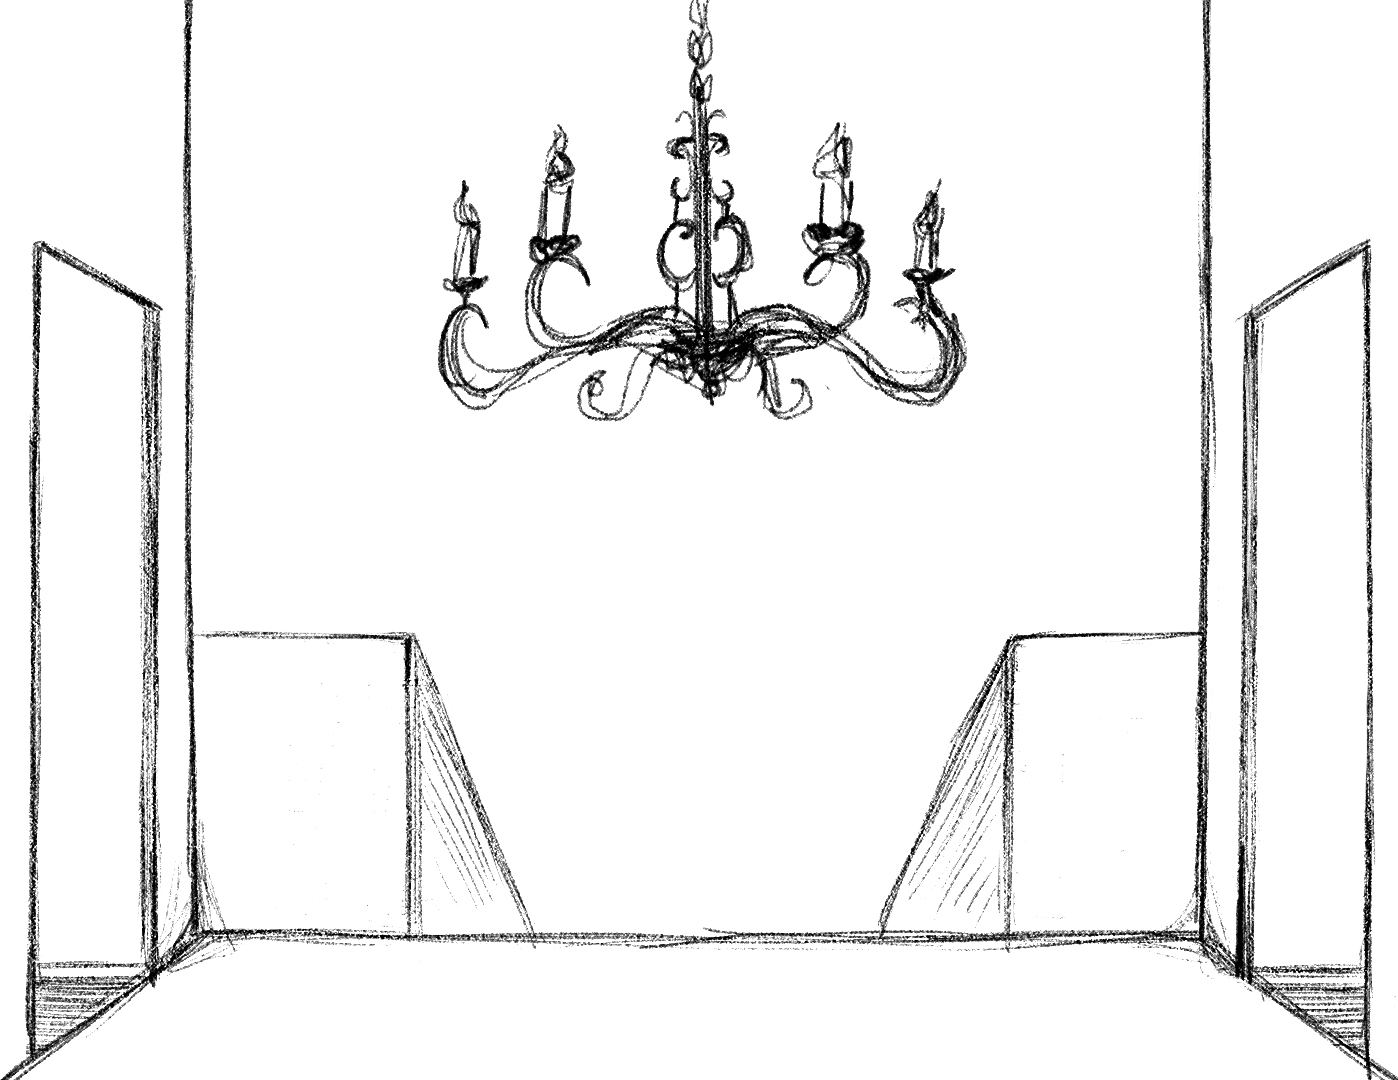
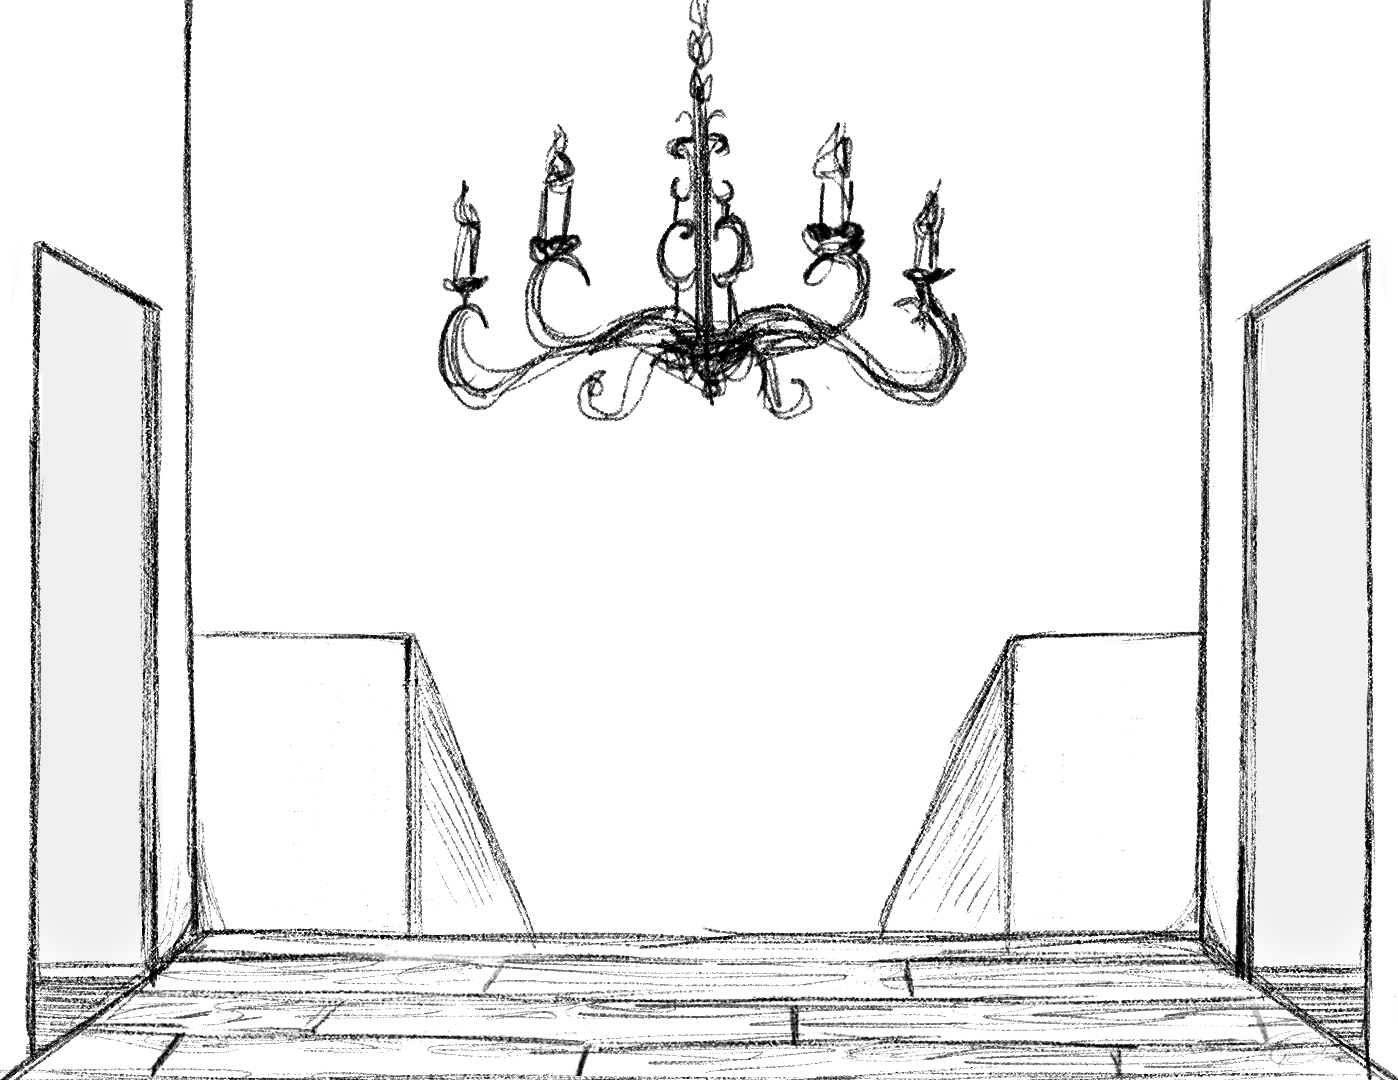
Update room backgrounds and hide exits to locked rooms

Changed region(s): [[0.0308, 0.8556, 0.9843, 1.0]]

diff --git a/tests/Integration/ProjectTest.Resources.cs b/tests/Integration/ProjectTest.Resources.cs
@@ -5,6 +5,74 @@ using Godot;
 
 public partial class ProjectTest
 {
+    private async Task TestRoomDoorways()
+    {
+        const string save = "user://room_doorway_test.json";
+        var scene = GD.Load<PackedScene>("res://scenes/trade_scene.tscn");
+        TradeScene game = scene.Instantiate<TradeScene>();
+        void CheckDoors(bool open)
+        {
+            string suffix = open ? ".jpg" : "_closed.jpg";
+            foreach (var entry in new[] { ("Corridor/CorridorBackground", "upper_corridor"),
+                ("TradingRoom/TradingRoomBackground", "cashier") })
+            {
+                var sprite = game.GetNode<Sprite2D>("World/" + entry.Item1);
+                Check(sprite.Texture.ResourcePath == "res://art/rooms/" + entry.Item2 + suffix &&
+                    sprite.Texture.GetSize() == new Vector2(1398, 1080) && sprite.Position == new Vector2(3, 4) &&
+                    sprite.Scale == Vector2.One && !sprite.Centered,
+                    $"{entry.Item2} must show the {(open ? "open" : "closed")} doorway without changing room geometry");
+            }
+        }
+        async Task Reload()
+        {
+            game.QueueFree();
+            await ToSignal(this, SignalName.ProcessFrame);
+            game = scene.Instantiate<TradeScene>();
+            game.SavePath = save;
+            Root.AddChild(game);
+            game.SetProcess(false);
+            await ToSignal(this, SignalName.ProcessFrame);
+        }
+        try
+        {
+            if (FileAccess.FileExists(save)) DirAccess.RemoveAbsolute(ProjectSettings.GlobalizePath(save));
+            CheckDoors(false); // The editor and the initial runtime frame must agree.
+            game.SavePath = save;
+            Root.AddChild(game);
+            game.SetProcess(false);
+            await ToSignal(this, SignalName.ProcessFrame);
+            CheckDoors(false);
+            game.Score = 0;
+            game.TryUnlockMusicWorkshop();
+            Check(!game.MusicWorkshopUnlocked, "An unaffordable unlock must keep neighboring rooms closed");
+            CheckDoors(false);
+            game.Score = 220;
+            game.TryUnlockMusicWorkshop();
+            Check(game.MusicWorkshopUnlocked && game.Score == 120,
+                "Existing unlock action and cost must remain unchanged");
+            CheckDoors(true);
+            await Reload();
+            Check(game.MusicWorkshopUnlocked, "Reload must restore the open-room state");
+            CheckDoors(true);
+            game.ReturnToCheckpoint();
+            Check(!game.MusicWorkshopUnlocked, "The initial checkpoint must close the added rooms again");
+            CheckDoors(false);
+            await Reload();
+            CheckDoors(false);
+            game.TryUnlockMusicWorkshop();
+            CheckDoors(true);
+            game.NewGame();
+            Check(!game.MusicWorkshopUnlocked && game.Score == 220, "New Game must restore the original locked state");
+            CheckDoors(false);
+        }
+        finally
+        {
+            game.QueueFree();
+            if (FileAccess.FileExists(save)) DirAccess.RemoveAbsolute(ProjectSettings.GlobalizePath(save));
+        }
+        await ToSignal(this, SignalName.ProcessFrame);
+    }
+
     private async Task TestLocalizedMenuAssets()
     {
         string locale = TranslationServer.GetLocale();

diff --git a/scripts/Presentation/RoomDoorwayPresentation.cs b/scripts/Presentation/RoomDoorwayPresentation.cs
@@ -1,0 +1,25 @@
+using Godot;
+
+// The existing unlock state controls the music room and the right showroom together.
+public partial class RoomDoorwayPresentation : Node
+{
+    private Sprite2D _corridor = null!, _cashier = null!;
+    private Texture2D _corridorOpen = null!, _corridorClosed = null!;
+    private Texture2D _cashierOpen = null!, _cashierClosed = null!;
+
+    public override void _Ready()
+    {
+        _corridor = GetNode<Sprite2D>("../World/Corridor/CorridorBackground");
+        _cashier = GetNode<Sprite2D>("../World/TradingRoom/TradingRoomBackground");
+        _corridorOpen = GD.Load<Texture2D>("res://art/rooms/upper_corridor.jpg");
+        _corridorClosed = GD.Load<Texture2D>("res://art/rooms/upper_corridor_closed.jpg");
+        _cashierOpen = GD.Load<Texture2D>("res://art/rooms/cashier.jpg");
+        _cashierClosed = GD.Load<Texture2D>("res://art/rooms/cashier_closed.jpg");
+    }
+
+    public void Refresh(bool neighboringRoomsUnlocked)
+    {
+        _corridor.Texture = neighboringRoomsUnlocked ? _corridorOpen : _corridorClosed;
+        _cashier.Texture = neighboringRoomsUnlocked ? _cashierOpen : _cashierClosed;
+    }
+}

diff --git a/tests/ProjectTest.cs b/tests/ProjectTest.cs
@@ -16,6 +16,13 @@ public partial class ProjectTest : SceneTree
         TranslationServer.SetLocale("ru");
         try
         {
+            if (OS.GetCmdlineUserArgs().Contains("--room-doorway-checks"))
+            {
+                await TestRoomDoorways();
+                GD.Print("ROOM_DOORWAY_CHECKS_PASS: initial, failed/successful unlock, reload, checkpoint and new game");
+                Quit();
+                return;
+            }
             if (OS.GetCmdlineUserArgs().Contains("--new-game-funds-checks"))
             {
                 await TestNewGameFunds();

diff --git a/scripts/TradeScene.cs b/scripts/TradeScene.cs
@@ -818,6 +818,7 @@ public partial class TradeScene : Node2D
 
 	private void RefreshShowcases()
 	{
+		GetNode<RoomDoorwayPresentation>("RoomDoorways").Refresh(MusicWorkshopUnlocked);
 		for (int i = 0; i < ShowcaseCapacity; i++)
 		{
 			bool locked =

diff --git a/ORCHESTRATION_PLAN.md b/ORCHESTRATION_PLAN.md
@@ -7,6 +7,44 @@
 
 ## Текущий фронт
 
+### HF-82 — hide doorways leading to locked rooms
+
+Status: `DONE`; coordinator/executor `/root`; READY 2026-11-09; HF-81 DONE. User requests no-opening sprites in open rooms while neighboring rooms remain locked. One executor; HF-81 assets retained.
+CP-HF-82 read-set: current front; scripts/TradeScene.cs (existing music/right-showroom unlock and presentation refresh), scripts/Persistence/TradeScene.Persistence.cs; scenes/trade_scene.tscn; scripts/Presentation/; tests/ProjectTest.cs, tests/Integration/ProjectTest.Resources.cs, Persistence.cs; config/economy.v1.json; exact input новые спрайты комнаты/верх центр без проема.jpg and касса без проема.jpg plus doorway variants previously inspected; art/rooms/; .vscode/settings.json; git status/diff. Write-set: ORCHESTRATION_PLAN.md; art/rooms/{upper_corridor_closed,cashier_closed}.jpg and .import; scripts/Presentation/RoomDoorwayPresentation.cs and .uid; scenes/trade_scene.tscn (initial closed textures/presentation node); scripts/TradeScene.cs (presentation refresh call only); tests/ProjectTest.cs; tests/Integration/ProjectTest.Resources.cs. TEMP/chikago-hf82-* diagnostics/logs; temporary override.cfg only if absent, removed after checks.
+Out of scope: source/, gameplay/unlock costs/save schema, new room state rules, other art editing, commit/push. Acceptance: initially corridor and cashier hide right exits to music/right-showroom; successful existing unlock reveals both immediately; failed unlock keeps them hidden; save/reload, checkpoint restoration and new game reproduce current lock state; scene defaults reflect closed state in editor; geometry/left doors and availability rules unchanged. Presentation consumes existing MusicWorkshopUnlocked without new domain logic in TradeScene. Checks: build; GPU --room-doorway-checks (state transitions/scene defaults/geometry), --persistence-checks, --balance-checks, --presentation-checks, --resource-checks; git diff --check.
+
+```text
+Task: HF-82
+Recommended status: REVIEW
+Changed: art/rooms/{upper_corridor_closed,cashier_closed}.jpg and .import; scripts/Presentation/RoomDoorwayPresentation.cs and .uid; scenes/trade_scene.tscn; scripts/TradeScene.cs (one presentation-refresh call); tests/ProjectTest.cs; tests/Integration/ProjectTest.Resources.cs; ORCHESTRATION_PLAN.md.
+Checks: build -> PASS (0 warnings/errors); Godot import -> PASS; GPU --room-doorway-checks -> PASS; --persistence-checks -> PASS; --balance-checks -> PASS; --presentation-checks -> PASS; --resource-checks -> PASS; both supplied closed images SHA256 -> MATCH; git diff --check -> PASS. Evidence TEMP/chikago-hf82-{import,room-doorway,persistence,balance,presentation,resource}.log/.err.
+Acceptance: scene defaults now show the supplied closed-right-door cashier/corridor artwork. A presentation-only node consumes the existing MusicWorkshopUnlocked state shared by music/right showroom and selects cached open/closed textures through the established showcase refresh path. No domain logic added to TradeScene and no new state persisted. Regression checks initial packed scene before Ready, fresh game, insufficient-funds unlock, successful100-dollar unlock, save/reload open, initial-checkpoint rollback closed, reload closed, unlock and new-game reset. Each transition checks exact texture paths,1398x1080 dimensions and unchanged sprite transforms.
+Read-set exception: none; source/ and PSD files untouched.
+Risks/blocker: none. Earlier background changes retained, temporary override removed, player saves unused. No commit/push.
+Next: unlock the music workshop to see both right-hand doorways appear.
+```
+
+Координатор подтвердил HF-82 2026-11-09 по build и пяти GPU targets: REVIEW → DONE.
+
+### HF-81 — replace room backgrounds with supplied artwork
+
+Status: `DONE`; coordinator/executor `/root`; READY 2026-11-09; HF-80 DONE. User supplies new room images in the explicitly named local folder and requests scene replacement. One executor.
+CP-HF-81 read-set: current front; exact input files новые спрайты комнаты/ателье.jpg, муз комната.jpg, нижняя.jpg, касса.jpg, касса без проема.jpg, верх центр.jpg, верх центр без проема.jpg (visual comparison/dimensions); art/rooms/{atelier,music_room,showroom,cashier,upper_corridor,room_layout,room_bg}.jpg and existing import descriptors; scenes/trade_scene.tscn; scripts/CounterWorld.cs; tests/ProjectTest.cs, tests/Integration/ProjectTest.Resources.cs, Presentation.cs, Camera.cs; .vscode/settings.json; git status/diff. Write-set: ORCHESTRATION_PLAN.md; art/rooms/{atelier,music_room,showroom,cashier,upper_corridor}.jpg (exact supplied image bytes) and their import descriptors only if Godot changes them. TEMP/chikago-hf81-* diagnostics/logs; temporary override.cfg only if absent and removed afterward.
+Out of scope: source/, PSD inspection, supplied originals modification/deletion, no-opening alternate variants, overall room layout, transforms/hitboxes/gameplay, commit/push. Acceptance: scene's existing five texture resources use new supplied images (both showcase rooms share showroom), all sizes preserved1920x1080 or1398x1080; doorway variants match existing connectivity; scene resources import/load, monochrome presentation works, visual inspection confirms replacements. Checks: source/destination SHA256 and image dimensions; Godot import; GPU --resource-checks/--presentation-checks; git diff --check. Artwork-only replacement adds no behavior or code.
+
+```text
+Task: HF-81
+Recommended status: REVIEW
+Changed: art/rooms/{atelier,cashier,showroom,upper_corridor}.jpg; ORCHESTRATION_PLAN.md. Supplied music-room bytes already match art/rooms/music_room.jpg, so no diff for that file.
+Checks: all5 source/destination SHA256 pairs -> MATCH; source/current dimensions -> preserved1920x1080 or1398x1080; Godot import -> PASS; GPU --resource-checks -> PASS; GPU --presentation-checks -> PASS; temporary scene smoke -> PASS for six background nodes' texture paths, dimensions and transforms; git diff --check -> PASS. Evidence TEMP/chikago-hf81-{import,resource,presentation,scene}.log/.err and scene-contact.png.
+Acceptance: existing scene texture paths now resolve to new supplied artwork, including both shared showcase backgrounds. Chose corridor/cashier doorway variants to preserve existing door connectivity. Canonical art paths/UIDs retained, no scene/script/hitbox/scale changes needed. Rendered scene montage inspected; replacements align with existing room rectangles. Supplied originals and PSDs untouched; no source/ access or image edits/generation. Artwork-only change; no new behavior introduced.
+Read-set exception: rg --files scripts used only to locate CounterWorld.cs after initial guessed World/ path did not exist; no source/ traversal.
+Risks/blocker: none for replacement. Existing overall-layout background, lock overlays and UI positions retained. Temporary override removed, isolated user directory used; no commit/push.
+Next: open trade_scene.tscn in Godot to inspect the updated room backgrounds.
+```
+
+Координатор подтвердил HF-81 2026-11-09 по hashes, GPU regressions и rendered inspection: REVIEW → DONE.
+
 ### HF-80 — verify and publish accumulated fixes
 
 Status: `DONE`; coordinator/executor `/root`; READY 2026-11-09; HF-79 DONE. User authorizes commit and push to GitHub after verification.
